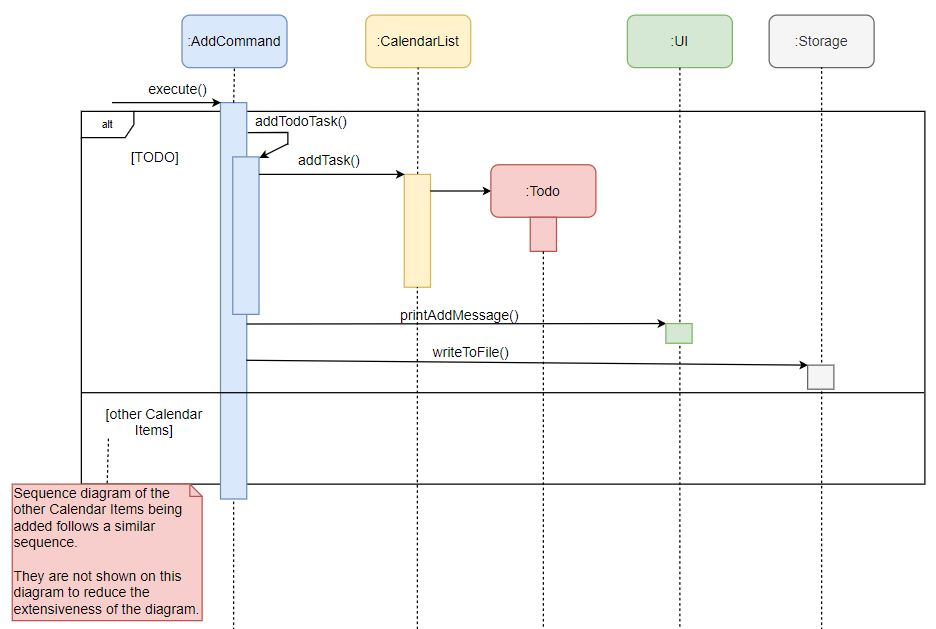
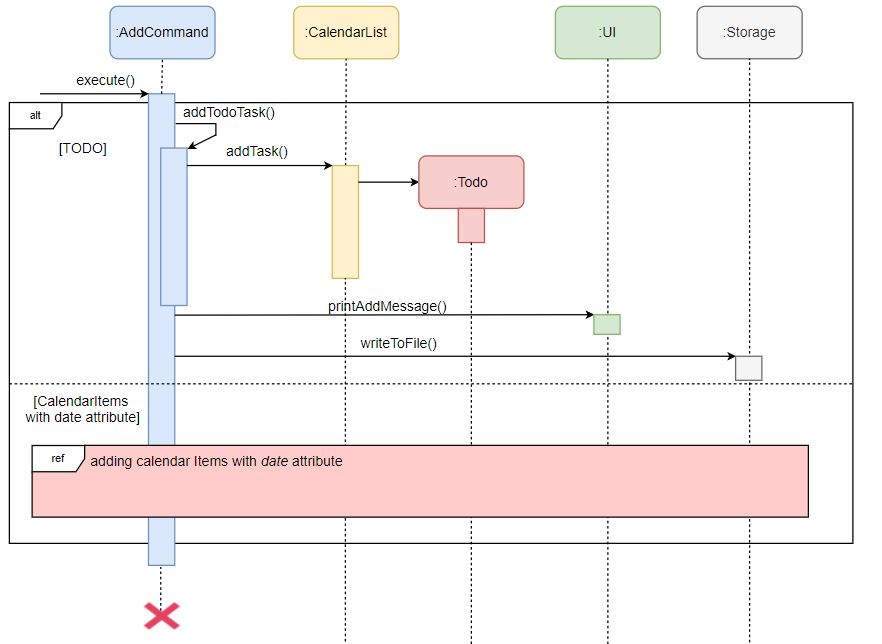
Update Add Command feature in DG

Changed region(s): [[0.0, 0.0, 1.0, 0.9968], [0.6122, 0.0, 0.949, 0.1208], [0.0, 0.5739, 0.0306, 0.6041]]

diff --git a/docs/DeveloperGuide.md b/docs/DeveloperGuide.md
@@ -138,15 +138,23 @@ This section describes the details of how each feature is implemented.
 
 ### Add a calendar item feature
 This feature is facilitated by `AddCommand`.
-The following sequence diagram shows how the `execute()` operation works:<br/>
+The following sequence diagram shows how the `execute()` operation works to add a `Todo` item:<br/>
 <img src="https://raw.githubusercontent.com/AY2021S1-CS2113T-T12-2/tp/master/images/add_command_SD.JPG" alt="" width="750"/><br/>
 
-Note: A self-call to a specific method to add the new `CalendarItem` to the `CalendarList` is done based on the `CalendarItem` being added.  
+The following sequence diagram shows how the `execute()` operation works to add `Activity` or `Deadline` item. A
+ `Deadline` item is used as an example.
+:<br/>
+<img src="https://raw.githubusercontent.com/AY2021S1-CS2113T-T12-2/tp/master/images/add_command_date_SD.JPG" alt
+="" width="750"/><br/>
 
-`CalendarItems` with deviations to sequence diagram above: 
-1. All `CalendarItems` with a date or time attribute calls the `TimeParser` class to interpret the date and time input of the user. 
-2. `Lecture`, `Lab`, `Tutorial`, or `Exam` type does a self-call for an additional check using the function `isValid(command)`. It ensures the module code included in the item is valid.
-3. `Lecture`, `Lab`, or `Tutorial`can be added as recurring items (multiple addition of the same class).   
+The following sequence diagram shows how the `execute()` operation works to add a`SchoolEvent` item. An `Exam` item
+ is used as an example.
+<img src="https://raw.githubusercontent.com/AY2021S1-CS2113T-T12-2/tp/master/images/add_command_module_SD.JPG" alt
+="" width
+="750"/><br/>
+
+Note: A self-call to a specific method to add the new `CalendarItem` to the `CalendarList` is done based on the
+ `CalendarItem` being added. The `CalendarItem` object created is also based on the `CalendarItem` being added. 
 
 ### Mark a task as done feature
 This feature is facilitated by `DoneCommand`.
